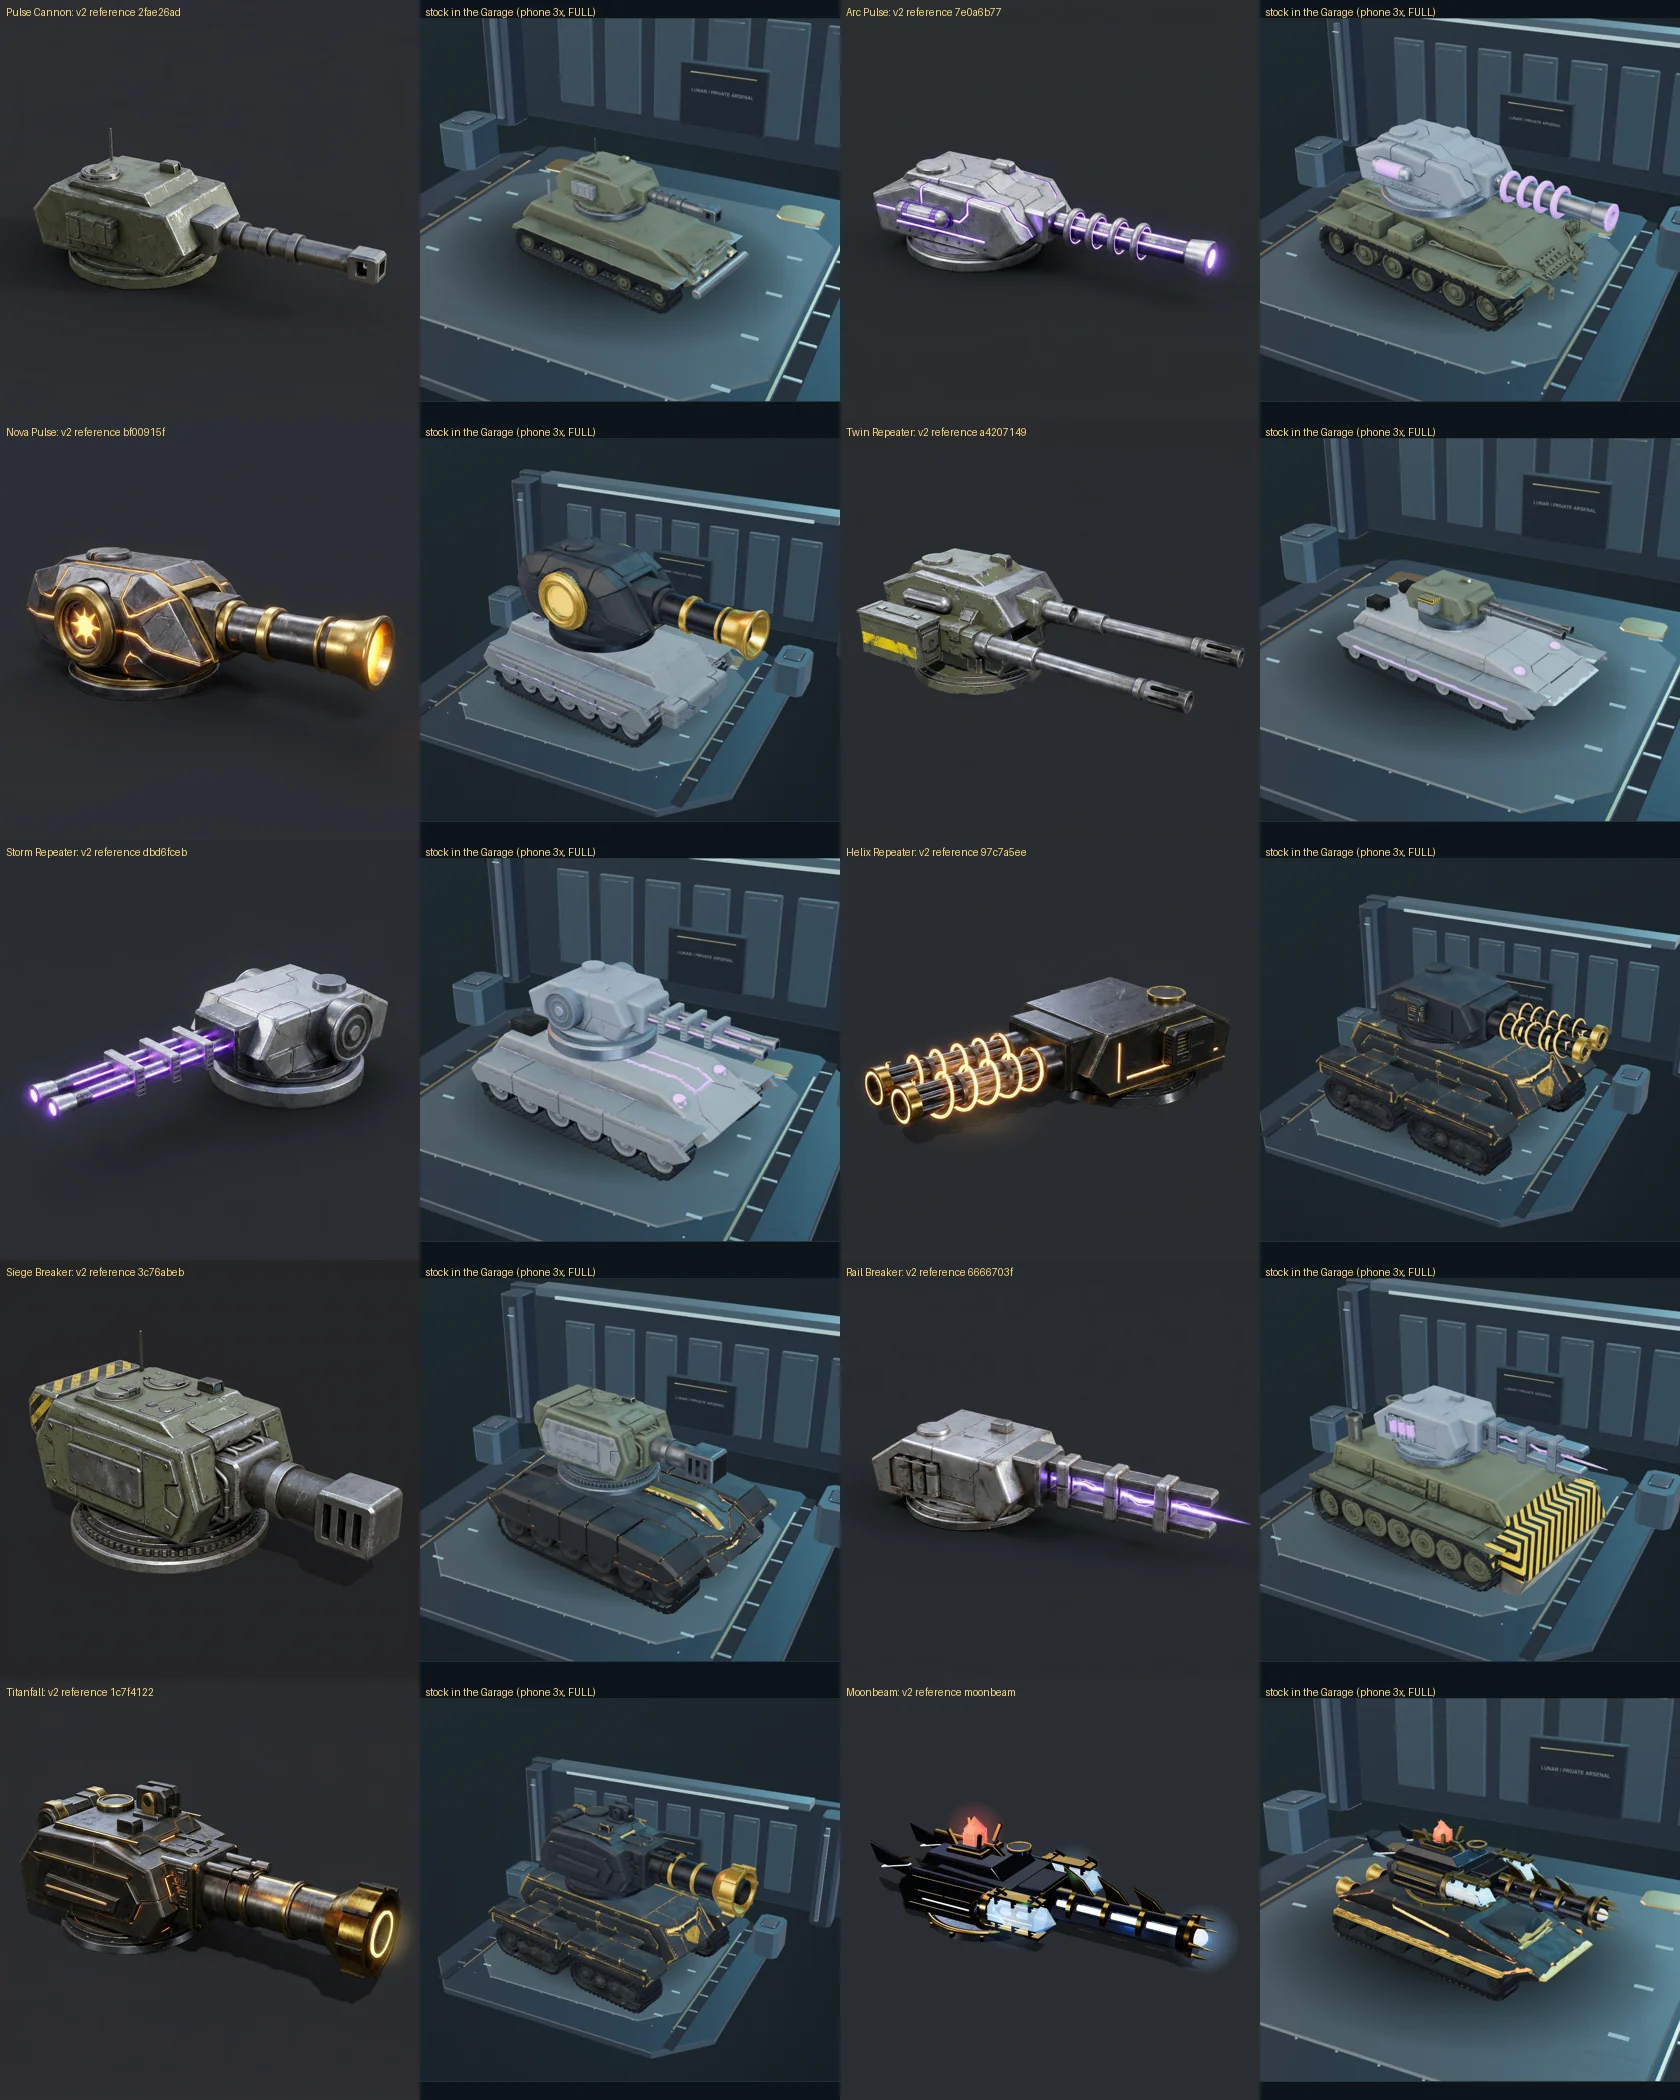
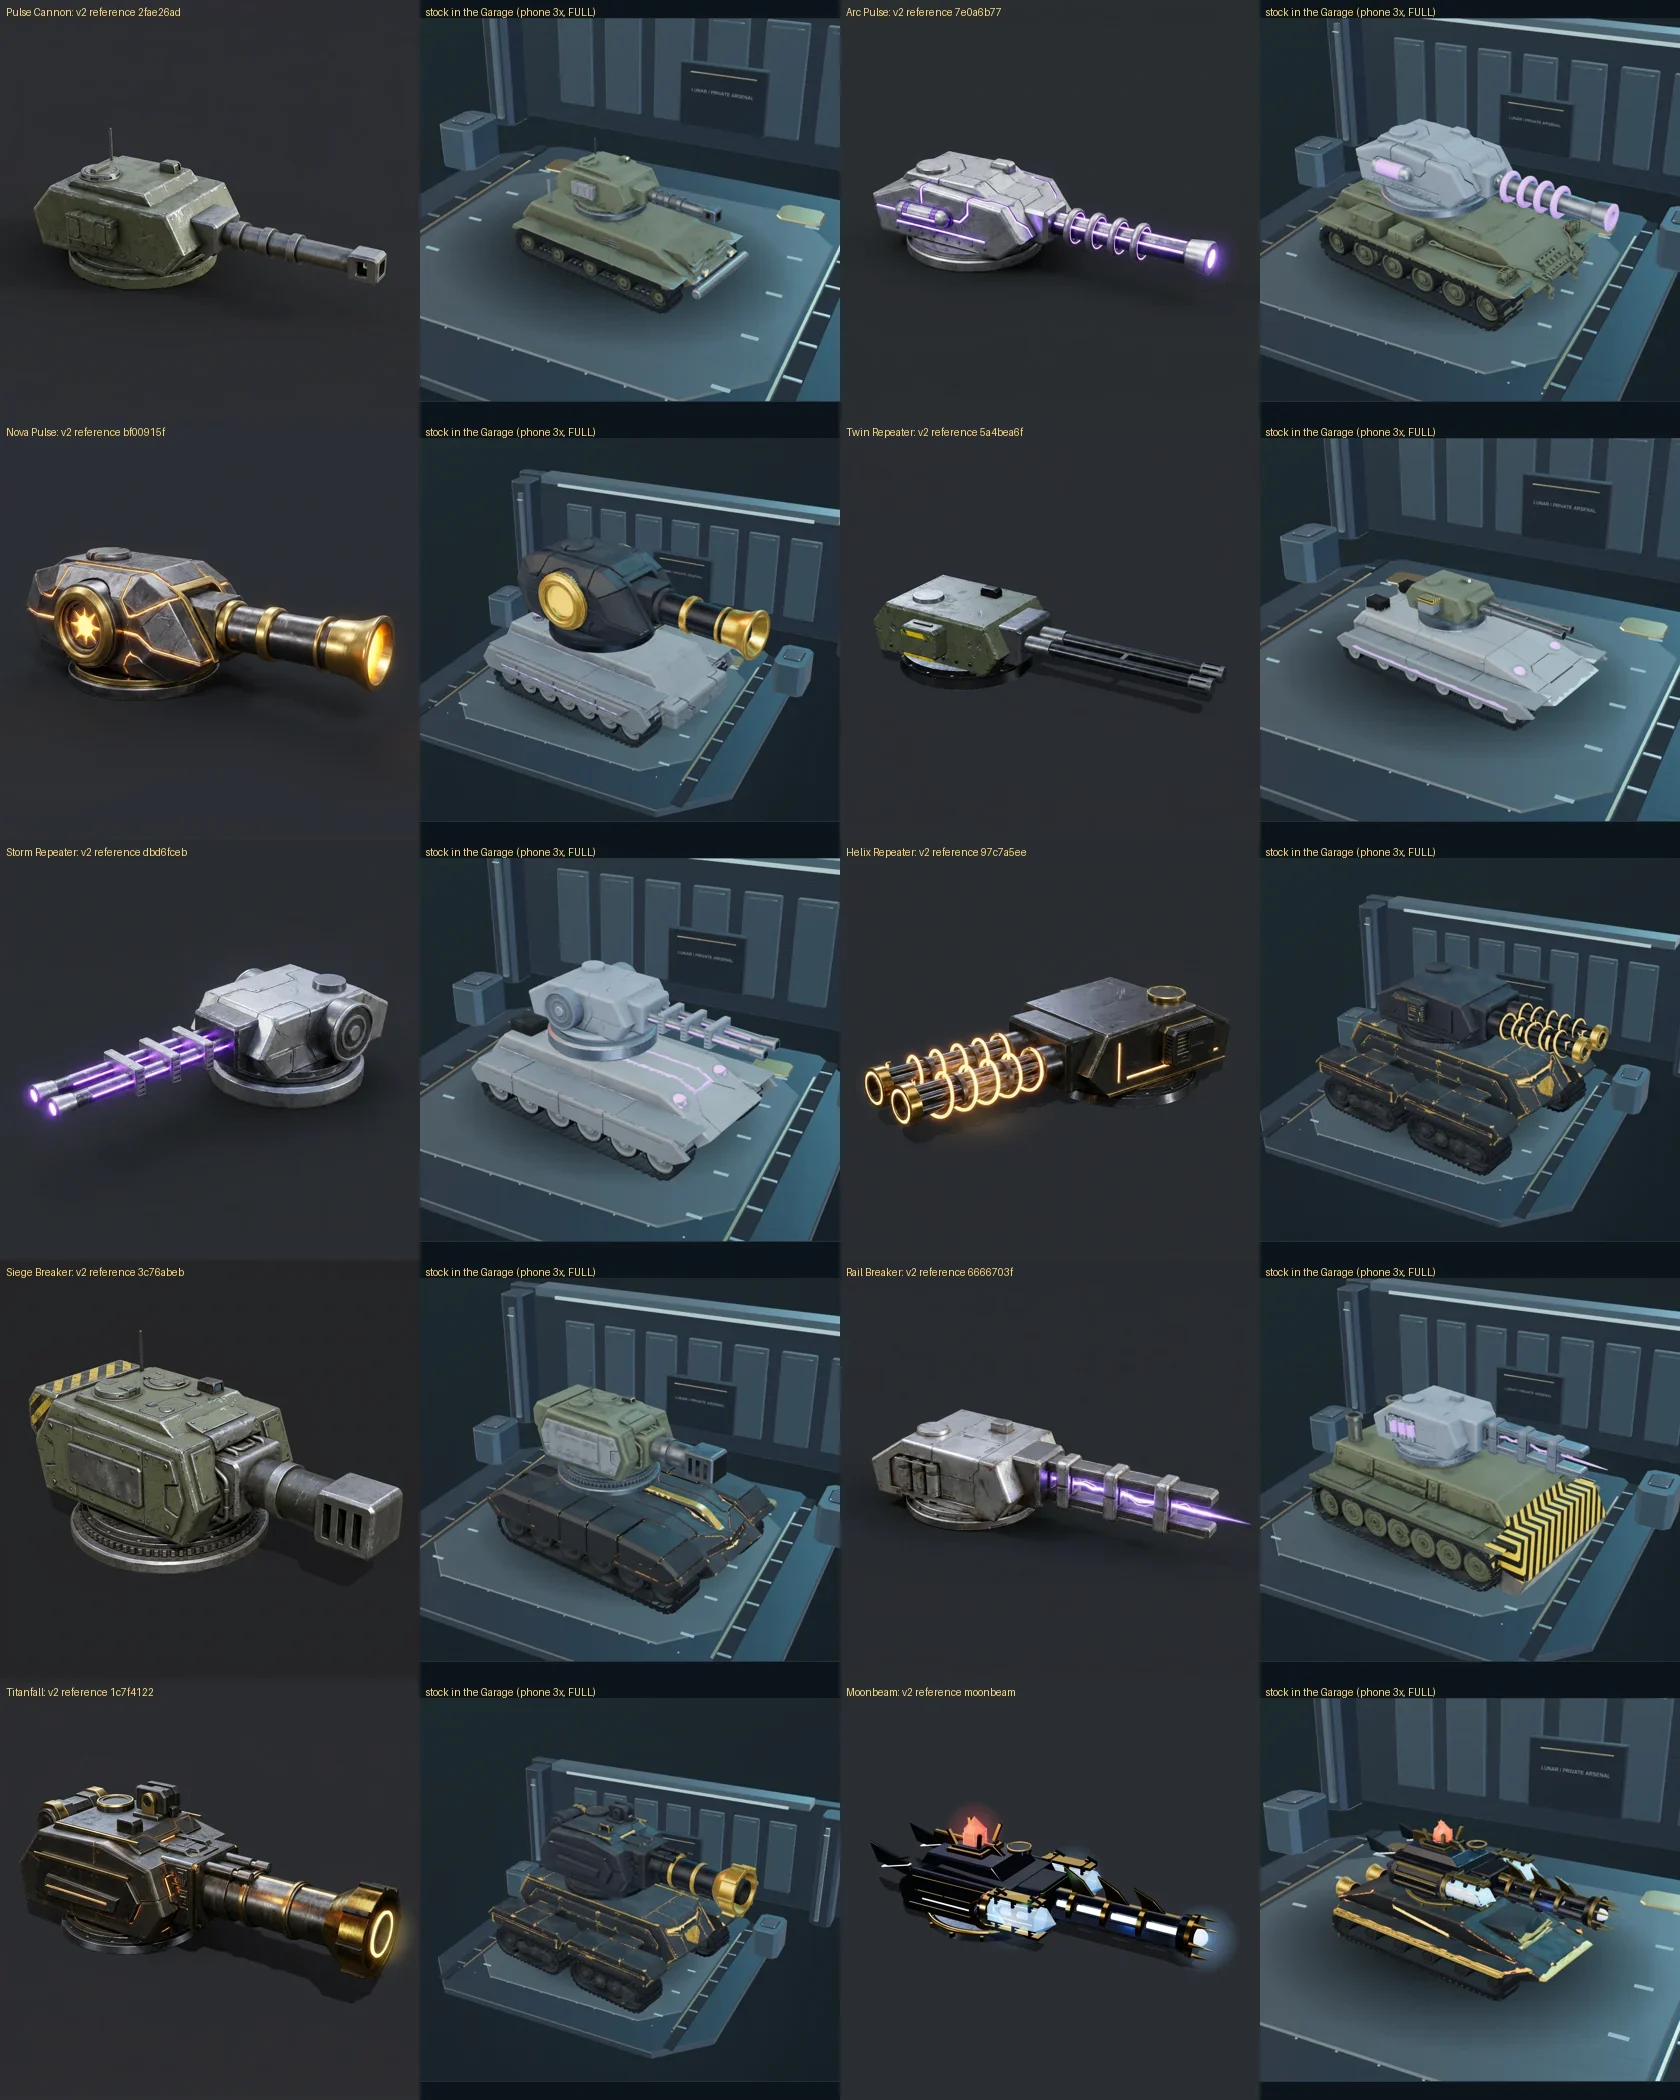
docs(art): remove unused weapon refs a4207149/13e648cb; Twin Repeater reference is 5a4bea6f (owner)
Checkpoint 32 table, colour_sheet.py and the weapons colour check sheet now use 5a4bea6f.png.

Claude-Session: https://claude.ai/code/session_014ynx7wrPGiWuSHCay13NFc

Changed region(s): [[0.4952, 0.2476, 0.7429, 0.3405]]

diff --git a/dev/assets/meshy/proof/colour_sheet.py b/dev/assets/meshy/proof/colour_sheet.py
@@ -10,7 +10,7 @@ ROOT=pathlib.Path(__file__).resolve().parents[4];REF=ROOT/'docs/art/references/t
 cap,out=pathlib.Path(sys.argv[1]),pathlib.Path(sys.argv[2]);out.mkdir(parents=True,exist_ok=True)
 # loadout capture -> (v2 image, name); the ten proof loadouts cover all 9 chassis and all 10 weapons
 CH=[('scout0-pulse0','b5ae93de','Scout'),('scout1-twin0','68556221','Strider'),('scout2-moon2','97e0789b','Phantom'),('vanguard0-pulse1','cc0abe1f','Vanguard'),('vanguard1-twin1','3dbcb303','Sentinel'),('vanguard2-siege0','ef23a11f','Paladin'),('titan0-siege1','c93ab27d','Titan'),('titan1-pulse2','72448d12','Bulwark'),('titan2-twin2','5081ec59','Colossus')]
-WP=[('scout0-pulse0','2fae26ad','Pulse Cannon'),('vanguard0-pulse1','7e0a6b77','Arc Pulse'),('titan1-pulse2','bf00915f','Nova Pulse'),('scout1-twin0','a4207149','Twin Repeater'),('vanguard1-twin1','dbd6fceb','Storm Repeater'),('titan2-twin2','97c7a5ee','Helix Repeater'),('vanguard2-siege0','3c76abeb','Siege Breaker'),('titan0-siege1','6666703f','Rail Breaker'),('titan2-siege2','1c7f4122','Titanfall'),('scout2-moon2','moonbeam','Moonbeam')]
+WP=[('scout0-pulse0','2fae26ad','Pulse Cannon'),('vanguard0-pulse1','7e0a6b77','Arc Pulse'),('titan1-pulse2','bf00915f','Nova Pulse'),('scout1-twin0','5a4bea6f','Twin Repeater'),('vanguard1-twin1','dbd6fceb','Storm Repeater'),('titan2-twin2','97c7a5ee','Helix Repeater'),('vanguard2-siege0','3c76abeb','Siege Breaker'),('titan0-siege1','6666703f','Rail Breaker'),('titan2-siege2','1c7f4122','Titanfall'),('scout2-moon2','moonbeam','Moonbeam')]
 def sheet(rows,sub,cols,name):
   T=420;n=len(rows);o=Image.new('RGB',(T*2*cols,T*((n+cols-1)//cols)),(13,20,28));d=ImageDraw.Draw(o)
   for k,(g,r,label) in enumerate(rows):

diff --git a/docs/conquest/IMPLEMENTATION_CHECKPOINT.md b/docs/conquest/IMPLEMENTATION_CHECKPOINT.md
@@ -1855,15 +1855,15 @@ were dropped (the earlier `docs/art/meshy-proof/v2/colour_check_stock_vs_referen
 | Pulse Cannon | weapon-pulse-0 | weapons/2fae26ad.png | compact olive turret, periscope, one barrel with sleeve bands |
 | Arc Pulse | weapon-pulse-1 | weapons/7e0a6b77.png | silver turret, barrel in four raised coil rings, violet muzzle |
 | Nova Pulse | weapon-pulse-2 | weapons/bf00915f.png | faceted dark turret, amber star core in a gold ring, gold bell muzzle |
-| Twin Repeater | weapon-twin-0 | weapons/a4207149.png | two long barrels with slotted flash hiders, hazard-strip ammo box |
+| Twin Repeater | weapon-twin-0 | weapons/5a4bea6f.png | olive turret, two thin black barrels (owner correction Nov 11; was a4207149.png, removed) |
 | Storm Repeater | weapon-twin-1 | weapons/dbd6fceb.png | silver, two long barrels with violet lines, side ammo drum |
 | Helix Repeater | weapon-twin-2 | weapons/97c7a5ee.png | two rotary clusters in amber spiral coils, gold muzzle rings |
 | Siege Breaker | weapon-siege-0 | weapons/3c76abeb.png | big blocky olive turret, short thick barrel, box muzzle brake |
 | Rail Breaker | weapon-siege-1 | weapons/6666703f.png | silver, two rail prongs held by clamps, violet arc |
 | Titanfall | weapon-siege-2 | weapons/1c7f4122.png | massive dark turret, huge barrel, gold bands and gold muzzle |
 | Moonbeam | weapon-moon | weapons/0c88031a.png | red core in square gold housing, blue charge crystals (README) |
-`weapons/13e648cb.png` (silver turret, blue orb, blue coil rings) and `weapons/5a4bea6f.png` (olive turret, two thin black barrels)
-match no GLB in the `meshy-models` release: recorded as unused alternates.
+Owner correction (Nov 11): the Twin Repeater's reference is `weapons/5a4bea6f.png`. The two unused images, `a4207149.png`
+(hazard-strip twin gun) and `13e648cb.png` (silver turret, blue orb), were deleted from the repo; never use them.
 
 **What v2 changed against the first pass (rebuilt: 6 chassis LIGHT + FULL, 3 Common weapons)**
 - Sentinel: dark gunmetal -> light silver with violet lines. Bulwark: dark -> steel silver with violet lines.
